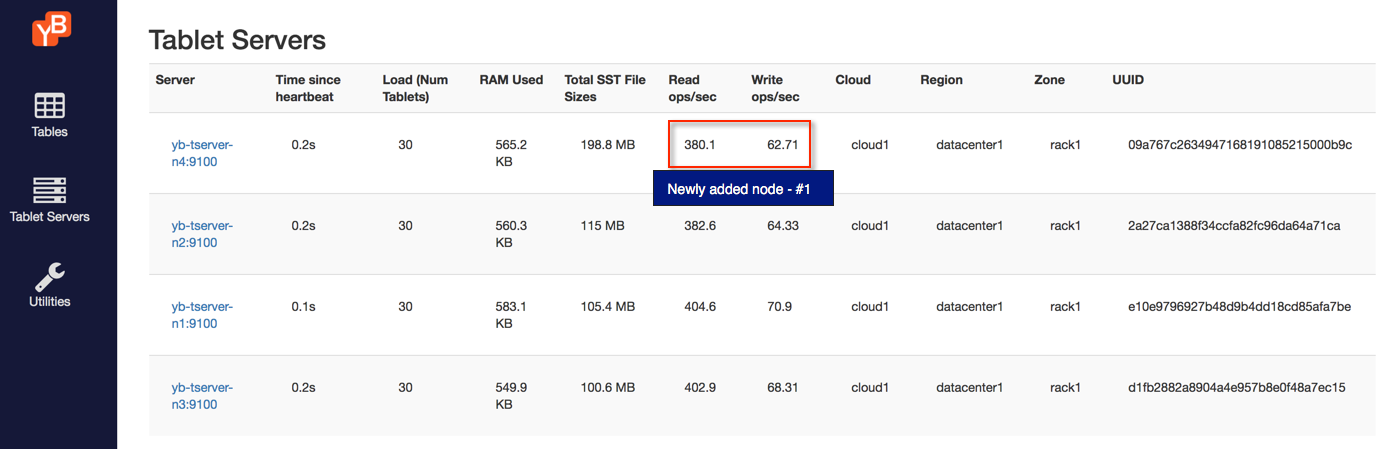
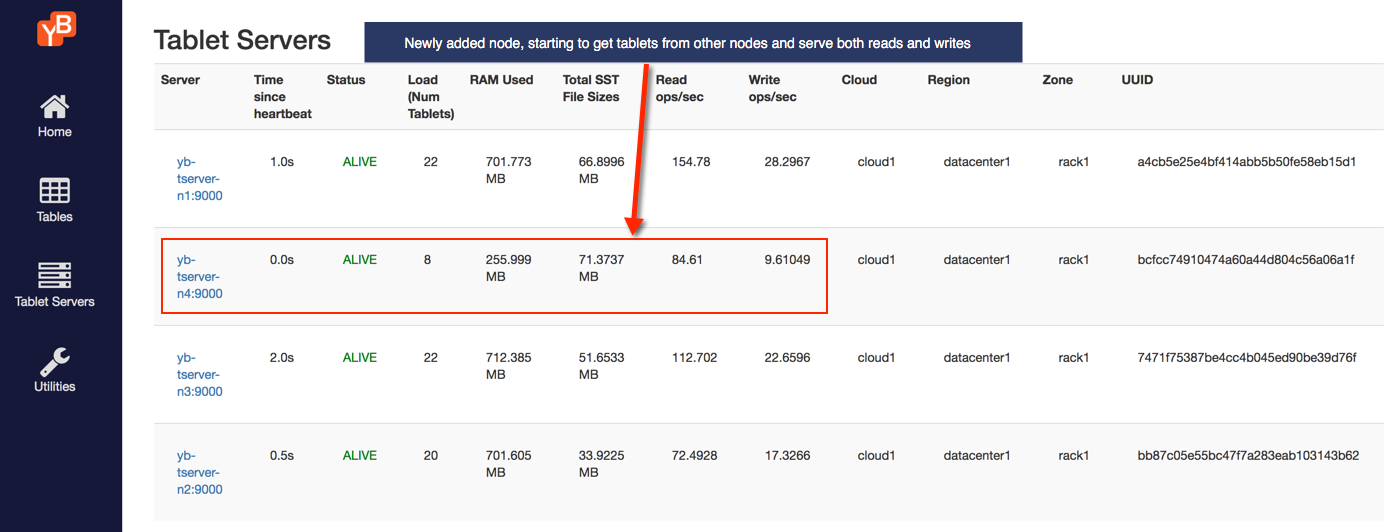
updated linear-scalability for docker and version to 1.0.4
Test Plan: local

Reviewers: bogdan, karthik

Reviewed By: karthik

Differential Revision: https://phabricator.dev.yugabyte.com/D5009

diff --git a/docs/layouts/partials/header.html b/docs/layouts/partials/header.html
@@ -29,7 +29,8 @@
               <div class="dropdown-menu" aria-labelledby="navbar_product_dropdown">
                 <a class="dropdown-item" href="https://www.yugabyte.com/product/yugabytedb/">YugaByte DB</a>
                 <a class="dropdown-item" href="https://www.yugabyte.com/product/enterprise/">Enterprise Edition</a>
-                <a class="dropdown-item" href="https://www.yugabyte.com/product/compare/">Compare</a>
+                <a class="dropdown-item" href="https://www.yugabyte.com/product/compare/">Compare Editions</a>
+                <a class="dropdown-item" href="https://www.yugabyte.com/product/why-yugabytedb/">Why YugaByte DB?</a>
               </div>
             </div>
           </div>

diff --git a/docs/content/latest/explore/cloud-native/docker/linear-scalability.md b/docs/content/latest/explore/cloud-native/docker/linear-scalability.md
@@ -5,15 +5,12 @@ If you have a previously running local universe, destroy it using the following.
 ```{.sh .copy .separator-dollar}
 $ ./yb-docker-ctl destroy
 ```
+Start a new local cluster. By default, this will create a 3-node universe with a replication factor of 3. We configure the number of [shards](/architecture/concepts/sharding/)(aka tablets) per table per tserver to 4 so that we can better observe the load balancing during scale-up and scale-down. Each table will now have 4 tablet-leaders in each tserver and with replication factor 3, there will be 2 tablet-followers for each tablet-leader distributed in the 2 other tservers. So each tserver will have 12 tablets (i.e. sum of 4 tablet-leaders and 8 tablet-followers) per table. 
 
-Start a new local cluster - by default, this will create a 3 node universe with a replication factor of 3.
-We set the number of [shards](/architecture/concepts/sharding/) per tserver to 4 so we can better observe the load balancing during scaling.
-Considering there are 3 tservers and replication factor 3, there will be 36 total shards per table.
 
 ```{.sh .copy .separator-dollar}
 $ ./yb-docker-ctl create --num_shards_per_tserver 4
 ```
-
 
 ## 2. Run sample key-value app
 
@@ -51,26 +48,29 @@ You can check a lot of the per-node stats by browsing to the <a href='http://loc
 Add a node to the universe.
 
 ```{.sh .copy .separator-dollar}
-$ ./yb-docker-ctl add_node
+$ ./yb-docker-ctl add_node --num_shards_per_tserver 4
 ```
 
 Now we should have 4 nodes. Refresh the <a href='http://localhost:7000/tablet-servers' target="_blank">tablet-servers</a> page to see the stats update. In a short time, you should see the new node performing a comparable number of reads and writes as the other nodes.
 
-![Read and write IOPS with 4 nodes](/images/ce/linear-scalability-4-nodes-docker.png)
+![Read and write IOPS with 4 nodes - Rebalancing in progress](/images/ce/linear-scalability-4-nodes-docker.png)
 
-## 5. Add another node and observe linear scale out
+![Read and write IOPS with 4 nodes - Balanced](/images/ce/linear-scalability-4-nodes-balanced-docker.png)
 
-Add yet another node to the universe.
+## 5. Remove node and observe linear scale in
+
+Remove the recently added node from the universe.
 
 ```{.sh .copy .separator-dollar}
-$ ./yb-docker-ctl add_node
+$ ./yb-docker-ctl remove_node 4
 ```
 
-Now we should have 5 nodes. Refresh the <a href='http://localhost:7000/tablet-servers' target="_blank">tablet-servers</a> page to see the stats update. In a short time, you should see the new node performing a comparable number of reads and writes as the other nodes.
+- Refresh the <a href='http://localhost:7000/tablet-servers' target="_blank">tablet-servers</a> page to see the stats update. The `Time since heartbeat` value for that node will keep increasing. Once that number reaches 60s (i.e. 1 minute), YugaByte DB will change the status of that node from ALIVE to DEAD. Note that at this time the universe is running in an under-replicated state for some subset of tablets.
 
-![Read and write IOPS with 5 nodes](/images/ce/linear-scalability-5-nodes-docker.png)
+![Read and write IOPS with 4th node dead](/images/ce/linear-scalability-4-nodes-dead-docker.png)
 
-YugaByte DB automatically lets the client know to use the newly added nodes for serving queries. This scaling out of client queries is completely transparent to the application logic, allowing the application to scale linearly for both reads and writes. 
+- After 300s (i.e. 5 minutes), YugaByte DB's remaining nodes will re-spawn new tablets that were lost with the loss of node 4. Each remaining node's tablet count will increase from 18 to 24.
+
 
 ## 6. Clean up (optional)
 

diff --git a/docs/content/latest/explore/cloud-native/binary/linear-scalability.md b/docs/content/latest/explore/cloud-native/binary/linear-scalability.md
@@ -6,7 +6,7 @@ If you have a previously running local universe, destroy it using the following.
 $ ./bin/yb-ctl destroy
 ```
 
-Start a new local cluster - by default, this will create a 3-node universe with a replication factor of 3. We configure the number of [shards](/architecture/concepts/sharding/)(aka tablets) per table per tserver to 4 so that we can better observe the load balancing during scale-up and scale-down. Each table will now have 4 tablet-leaders in each tserver and with replication factor 3, there will be 2 tablet-followers for each tablet-leader distributed in the 2 other tservers. So each tserver will have 12 tablets (i.e. sum of 4 tablet-leaders and 8 tablet-followers) and the cluster will have to a total of 36 tablets.
+Start a new local cluster - by default, this will create a 3-node universe with a replication factor of 3. We configure the number of [shards](/architecture/concepts/sharding/)(aka tablets) per table per tserver to 4 so that we can better observe the load balancing during scale-up and scale-down. Each table will now have 4 tablet-leaders in each tserver and with replication factor 3, there will be 2 tablet-followers for each tablet-leader distributed in the 2 other tservers. So each tserver will have 12 tablets (i.e. sum of 4 tablet-leaders and 8 tablet-followers) per table.
 
 ```{.sh .copy .separator-dollar}
 $ ./bin/yb-ctl --num_shards_per_tserver 4 create

diff --git a/docs/content/latest/quick-start/_index.md b/docs/content/latest/quick-start/_index.md
@@ -13,6 +13,10 @@ menu:
     weight: 100
 ---
 
+{{< note title="Note" >}}
+Local clusters should be used only for functional testing and not for performance testing or production deployments. You can either [manually deploy](/deploy/manual-deployment/) YugaByte DB binaries on a set of instances or use the [Enterprise Edition](/deploy/enterprise-edition/) that automates all day-to-day operations including cluster administration across all major public clouds as well as on-premises datacenters.
+{{< /note >}}
+
 <div class="row">
   <div class="col-12 col-md-6 col-lg-12 col-xl-6">
     <a class="section-link icon-offset" href="install/">
@@ -87,6 +91,3 @@ menu:
   </div>
 </div>
 
-{{< note title="Note" >}}
-Running local clusters is not recommended for production environments. You can either deploy the [Community Edition](/deploy/multi-node-cluster/) manually on a set of instances or use the [Enterprise Edition](/deploy/enterprise-edition/) that automates all day-to-day operations including cluster administration across all major public clouds as well as on-premises datacenters.
-{{< /note >}}

diff --git a/docs/content/latest/quick-start/binary/macos-install.md b/docs/content/latest/quick-start/binary/macos-install.md
@@ -16,11 +16,11 @@ Python 2.7.10
 Download the YugaByte DB CE package as shown below.
 
 ```{.sh .copy .separator-dollar}
-$ wget https://downloads.yugabyte.com/yugabyte-ce-1.0.3.0-darwin.tar.gz
+$ wget https://downloads.yugabyte.com/yugabyte-ce-1.0.4.0-darwin.tar.gz
 ```
 
 ```{.sh .copy .separator-dollar}
-$ tar xvfz yugabyte-ce-1.0.3.0-darwin.tar.gz && cd yugabyte-1.0.3.0/
+$ tar xvfz yugabyte-ce-1.0.4.0-darwin.tar.gz && cd yugabyte-1.0.4.0/
 ```
 
 ## Configure

diff --git a/docs/content/latest/quick-start/binary/linux-install.md b/docs/content/latest/quick-start/binary/linux-install.md
@@ -21,10 +21,10 @@ Download the YugaByte DB CE package as shown below.
 
 
 ```{.sh .copy .separator-dollar}
-$ wget https://downloads.yugabyte.com/yugabyte-ce-1.0.3.0-linux.tar.gz
+$ wget https://downloads.yugabyte.com/yugabyte-ce-1.0.4.0-linux.tar.gz
 ```
 ```{.sh .copy .separator-dollar}
-$ tar xvfz yugabyte-ce-1.0.3.0-linux.tar.gz && cd yugabyte-1.0.3.0/
+$ tar xvfz yugabyte-ce-1.0.4.0-linux.tar.gz && cd yugabyte-1.0.4.0/
 ```
 
 ## Configure
